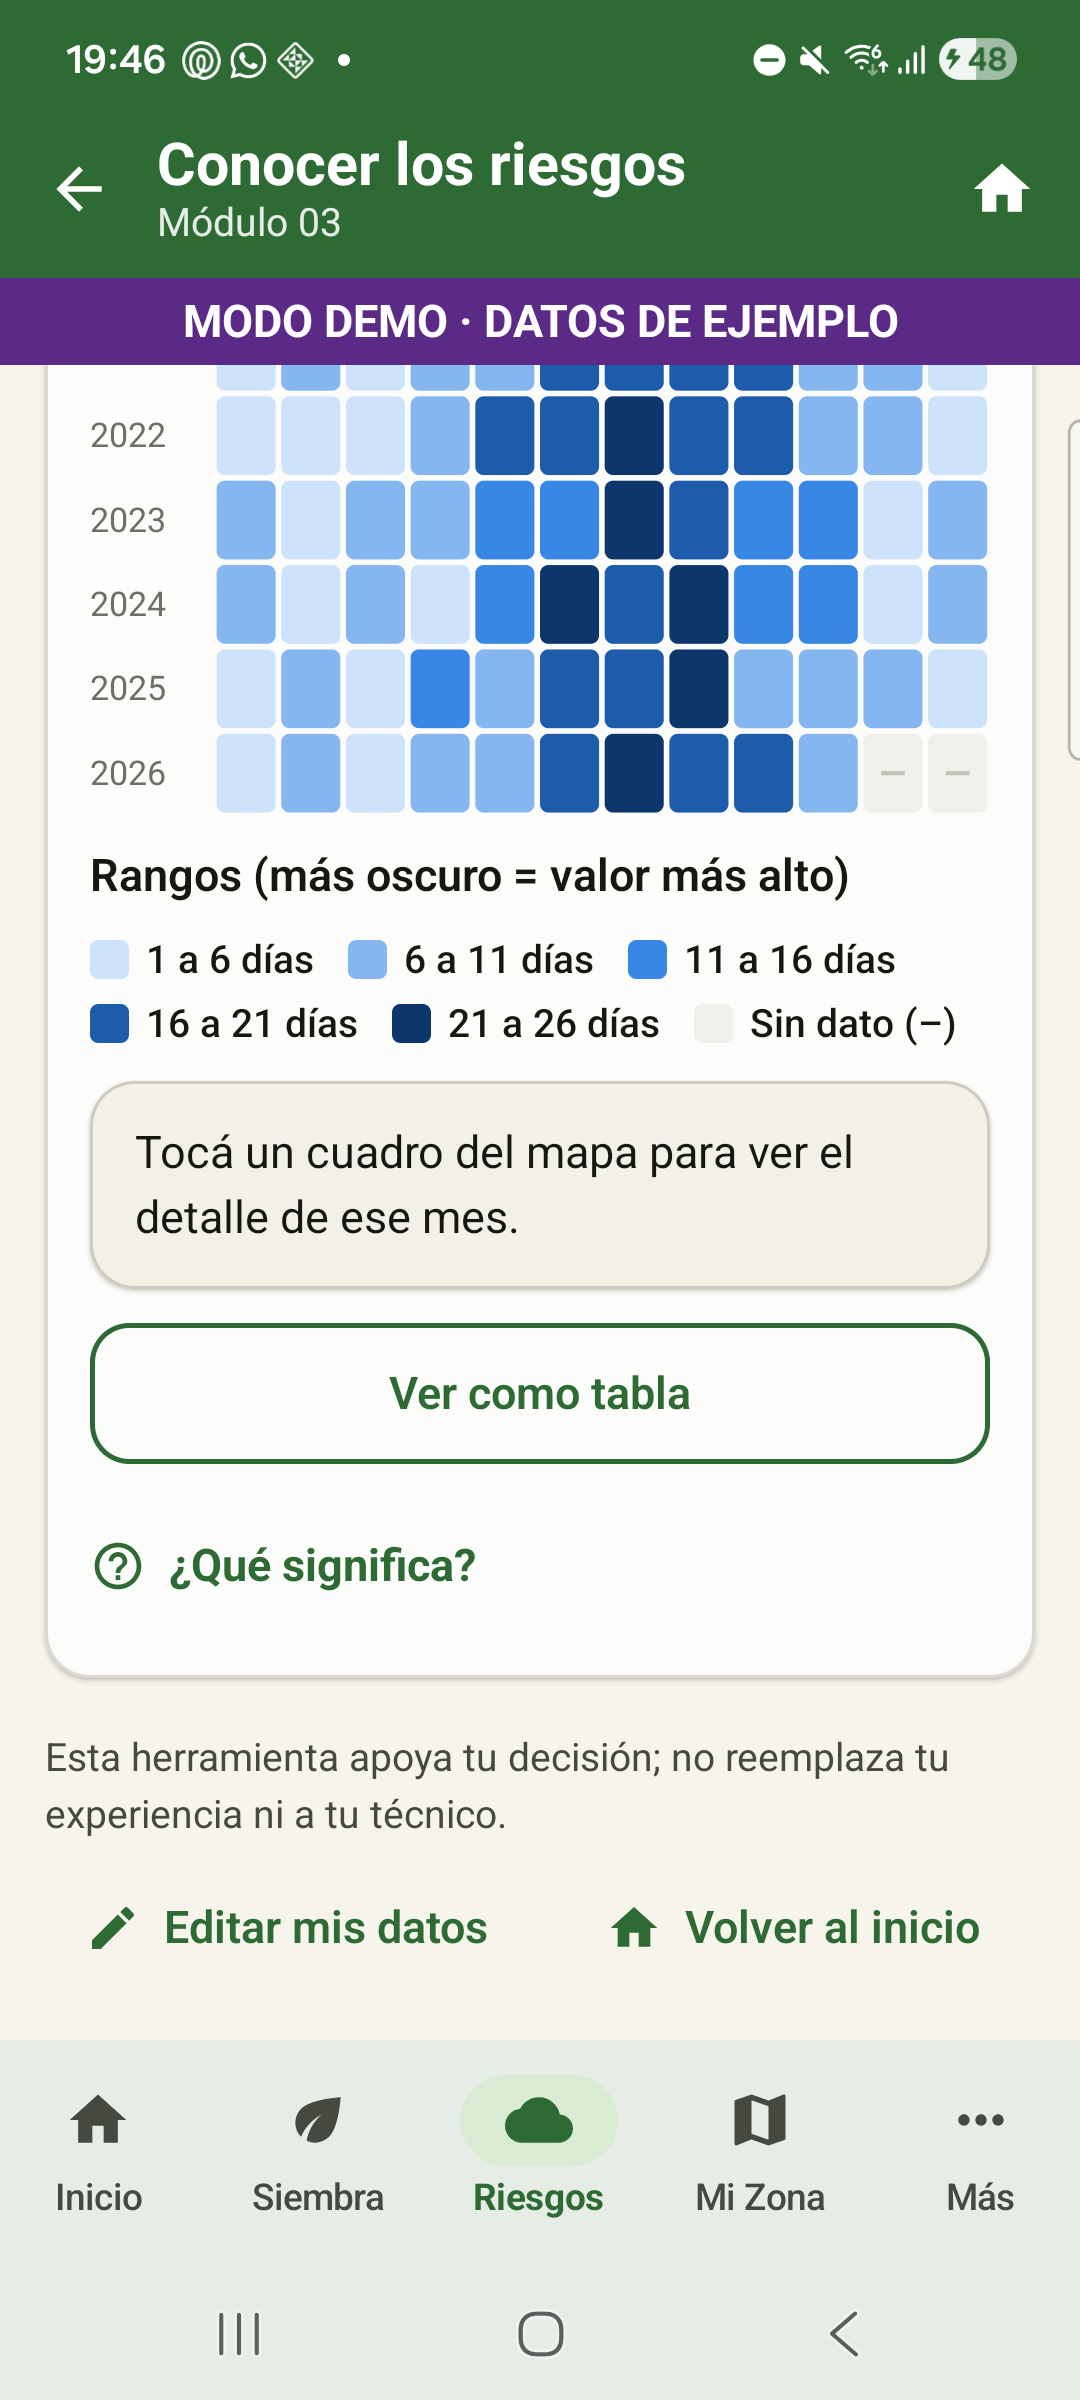
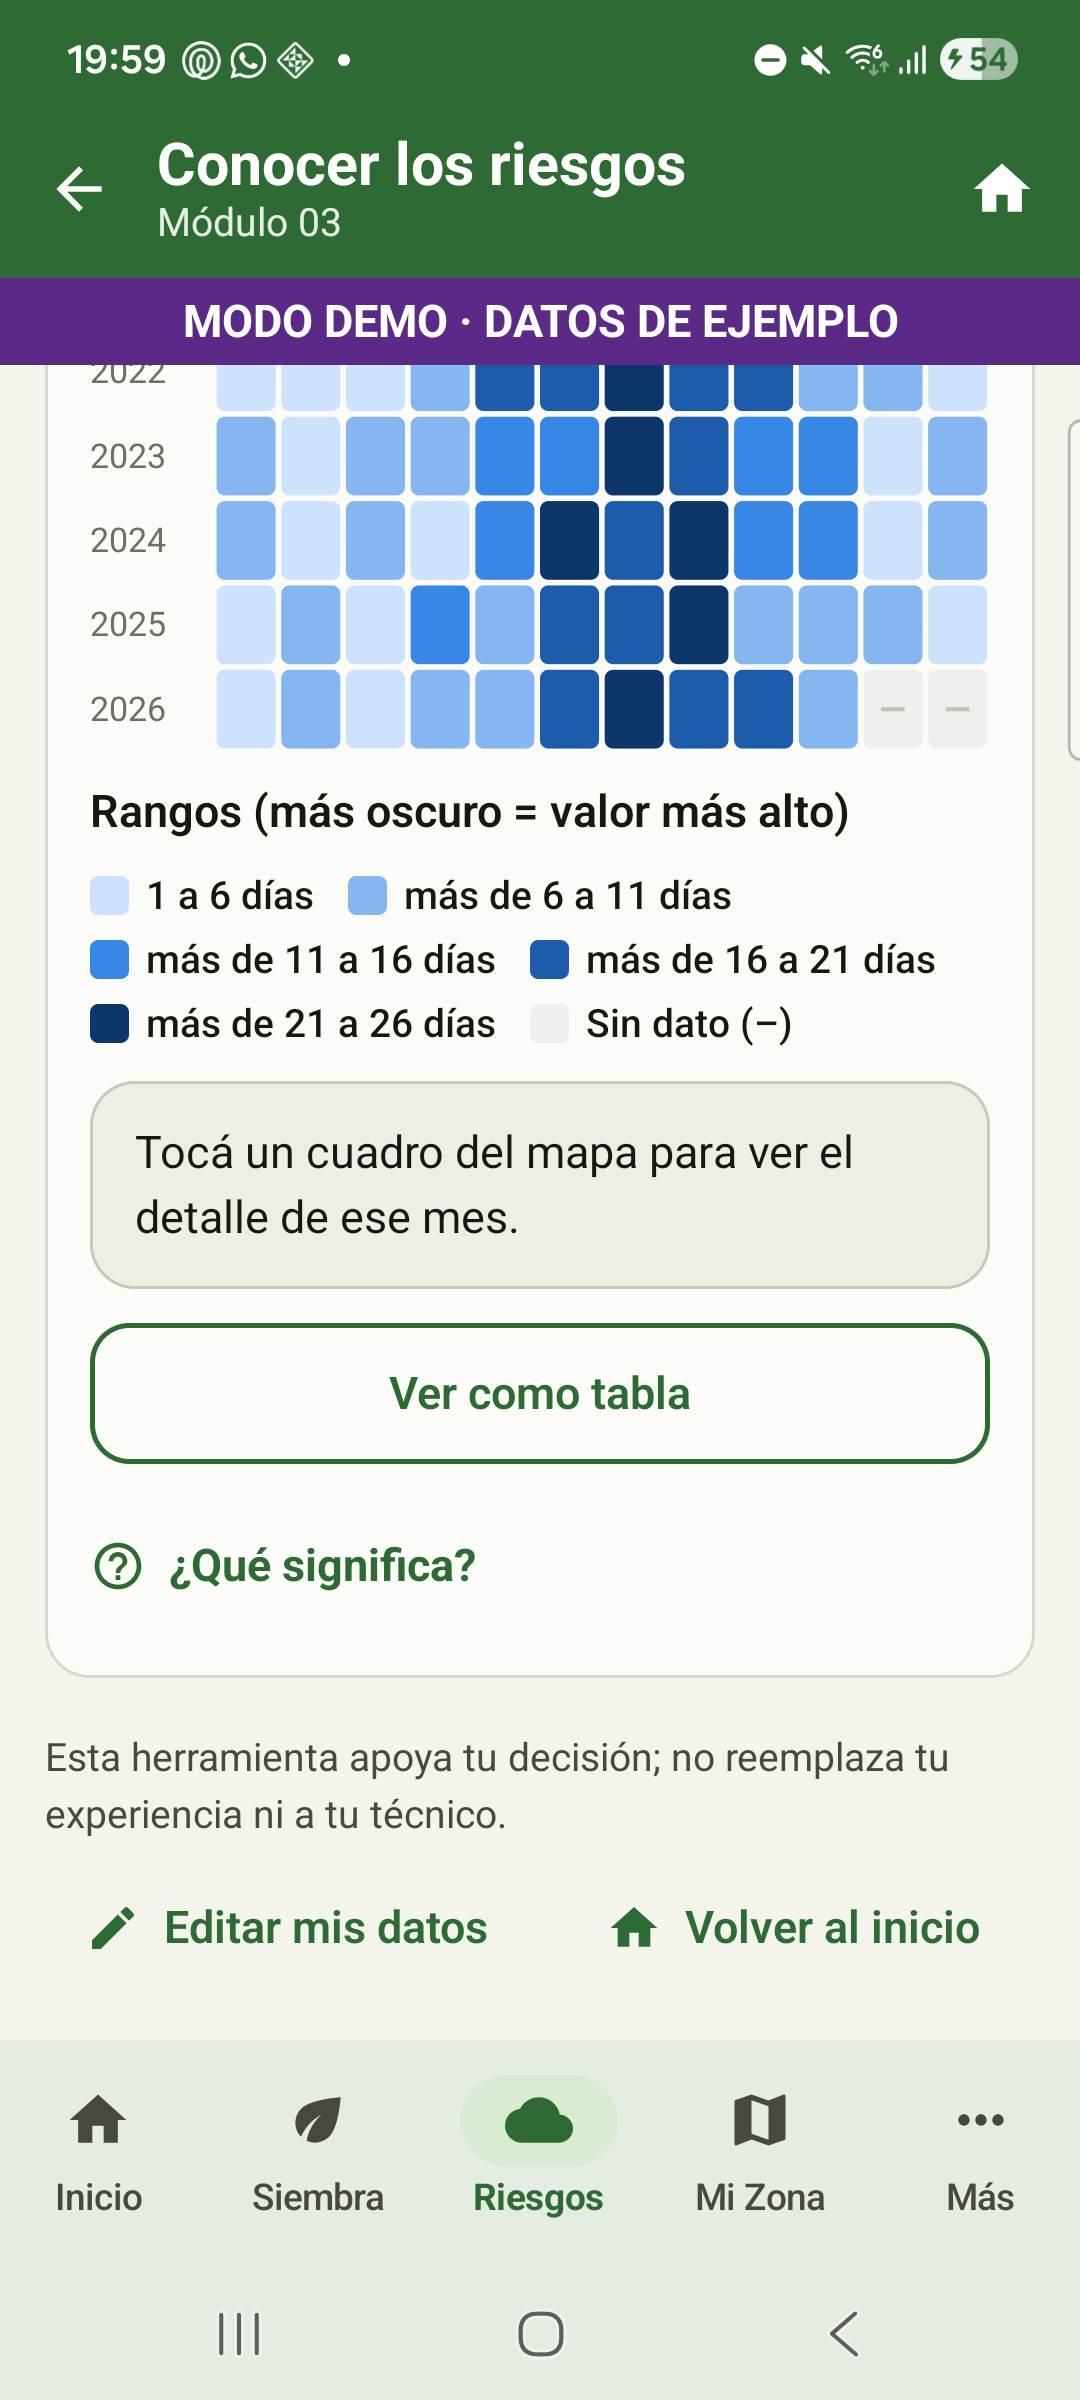
docs(ui): segundo pase (P2) en README, DESIGN.md y capturas «después»

diff --git a/DESIGN.md b/DESIGN.md
@@ -11,16 +11,16 @@ colors:
   clay: "#8A5A00"
   clay-container: "#FFE9B8"
   on-clay-container: "#3D2800"
-  paper: "#F7F4EC"
-  card-surface: "#FCFCFB"
+  paper: "#F3F5EC"
+  card-surface: "#FBFCF8"
   surface-container-lowest: "#FFFFFF"
-  surface-container: "#F3F0E6"
-  card-surface-variant: "#EDE9DD"
-  surface-container-highest: "#E6E2D4"
+  surface-container: "#ECEFE3"
+  card-surface-variant: "#E6E9DB"
+  surface-container-highest: "#DFE3D2"
   ink: "#14180F"
   ink-secondary: "#45493F"
   outline: "#7B7F72"
-  outline-soft: "#CFCBBD"
+  outline-soft: "#C6CBB9"
   alert-red: "#A62B22"
   alert-red-container: "#FBE0DC"
   on-alert-red-container: "#5C120D"
@@ -42,6 +42,7 @@ colors:
   chart-div-mid: "#F0EFEC"
   chart-div-high-soft: "#86B6EF"
   chart-div-high: "#1C5CAB"
+  chart-surface: "#FCFCFB"
   chart-no-data: "#F0EFEC"
   chart-grid: "#E1E0D9"
   chart-axis: "#C3C2B7"
@@ -241,8 +242,8 @@ components:
 
 > Este documento describe el sistema **tal como está implementado** en `app/src/main/java/com/example/farmealotu/ui/`
 > (`theme/Color.kt`, `theme/Type.kt`, `theme/Theme.kt`, `components/Common.kt`, `components/Charts.kt`,
-> `components/HeatScale.kt`). Las decisiones aprobadas que todavía no están en el código se marcan
-> **«aprobada, pendiente de aplicar»**.
+> `components/HeatScale.kt`, `components/FarmIcons.kt`). Si se aprueba una decisión que todavía no está en el código,
+> se marca **«aprobada, pendiente de aplicar»**; hoy no hay ninguna.
 
 ## Overview
 
@@ -328,9 +329,10 @@ no se reordenan y no se cambian sin volver a validarlos.
 
 **The Purple Means Demo Rule.** El morado aparece solo en la franja de MODO DEMO. Si lo ves en otro lugar, es un error.
 
-**The Green Paper Rule (aprobada, pendiente de aplicar).** Llevar `paper` y las superficies neutras a un papel con un
-matiz verde leve, sin perder la calidez ni el contraste de la tinta. Es un cambio pequeño dentro de la misma
-identidad; se aplica en la Fase 2 (tema) y se revalidan los contrastes.
+**The Green Paper Rule.** `paper` y las superficies neutras son un papel con un matiz verde leve (antes crema
+#F7F4EC), sin perder la calidez ni el contraste: la tinta queda en 14:1 o más, la secundaria en 7:1 o más y el verde
+de los textos en 4,9:1 o más sobre todas las superficies. `ChartPalette.surface` tiene su propio valor fijo
+(`chart-surface`) y no sigue a `card-surface`.
 
 ## Typography
 
@@ -390,18 +392,18 @@ detalle. Lo técnico va al final y plegado.
 
 ## Elevation & Depth
 
-Hoy el sistema es mixto. Las tarjetas combinan una sombra de 1 dp con un borde fino de `outline-soft` al 70 %. El
-botón principal tiene 2 dp de sombra, y la barra de navegación usa elevación tonal de 6 dp. Las tarjetas tranquilas
-(`surface-container`, sin borde) ya se apoyan solo en el tono.
+Plana y tonal. Las tarjetas declaran la elevación una sola vez, con un borde fino de `outline-soft` al 70 % y sin
+sombra. El botón principal no tiene sombra. La barra de navegación usa elevación tonal de 6 dp, y las tarjetas
+tranquilas (`surface-container`, sin borde) se apoyan solo en el tono.
 
 ### Shadow Vocabulary
-- **Tarjeta** (elevación Material 1 dp + borde de 1 dp en `outline-soft` al 70 %): todas las `SectionCard`.
-- **Botón principal** (elevación Material 2 dp): `PrimaryButton`.
+- **Tarjeta** (sin sombra; borde de 1 dp en `outline-soft` al 70 %): todas las `SectionCard`.
+- **Botón principal** (sin sombra, también al presionar): `PrimaryButton`.
 - **Barra de navegación** (elevación tonal de 6 dp): `NavigationBar`.
 - **Sombra del geovisor** (negro al 20 %, `0x33000000`): sombra de las capas de la pila isométrica en Canvas.
 
 ### Named Rules
-**The Flat Tonal Rule (aprobada, pendiente de aplicar).** La profundidad se expresa con los niveles tonales de
+**The Flat Tonal Rule.** La profundidad se expresa con los niveles tonales de
 superficie de Material 3 y bordes finos, con una sombra casi nula. Así se lee más limpio y ordenado, y al sol no se
 ensucia. La tarjeta destacada se distingue por su contenedor y su borde de 2 dp, no por la sombra.
 
@@ -422,7 +424,7 @@ acción principal clara por pantalla.
 ### Buttons
 - **Shape:** esquinas redondeadas medias (14 dp).
 - **Primary (`PrimaryButton`):** relleno Verde Cultivo con texto blanco en Title Medium Bold; ancho completo, alto
-  mínimo de 54 dp, relleno de 12/16 dp y 2 dp de sombra. Ejemplos: «Comparar opciones de siembra», «Comparar todas»,
+  mínimo de 54 dp, relleno de 12/16 dp y sin sombra. Ejemplos: «Comparar opciones de siembra», «Comparar todas»,
   «Reintentar».
 - **Secondary (`SecondaryButton`):** contorno de 1,5 dp en Verde Cultivo y texto verde en Label Large SemiBold;
   ancho completo, alto mínimo de 50 dp. Se usa para navegar y para acciones alternativas.

diff --git a/docs/ui_review/README.md b/docs/ui_review/README.md
@@ -38,12 +38,22 @@ También se actualizó `DESIGN.md` y `.impeccable/design.json` para describir el
 - Revisado en el teléfono: tema claro, oscuro y letra 1.3. Al terminar se restauraron los valores del teléfono
   (modo oscuro activado, letra 1.0, No molestar apagado, «mantener encendida» = 7).
 
+## Segundo pase: P2
+
+| # | Problema (antes) | Cambio | Archivo | Comparar |
+|---|---|---|---|---|
+| P2-1 | Datos de terreno: etiquetas «A»/«B» superpuestas y eje 6 · 15.7 · 25.3 · 35 | Marcas redondas (`niceTicks`: pasos de 1, 2, 2,5 o 5 × 10ⁿ) y etiquetas finales que se separan si chocan | `ui/components/Charts.kt` | `antes/claro/15_datos_terreno_3..4` → `despues/claro/15_datos_terreno_humedad*` |
+| P2-2 | Escala 0·50·100 repetida bajo cada opción del 04 | La escala se rotula solo en la primera barra; las demás conservan las marcas | `Charts.kt` (`RangeBar`), `UncertaintyScreen.kt` | `13_incertidumbre_1` |
+| P2-3 | Leyenda «1 a 6 días / 6 a 11 días» (¿dónde va el 6?) | «1 a 6», «más de 6 a 11», igual que se asigna el color | `ui/components/HeatScale.kt` | `12_riesgos_mapa_calor` |
+| P2-4 | Fondo crema y sombras de 1–2 dp | Papel con matiz verde (contrastes revalidados) y profundidad plana; `ChartPalette.surface` fijado para no cambiar la paleta | `ui/theme/Color.kt`, `Theme.kt`, `Common.kt` | cualquier captura |
+| P2-5 | Preguntas 3 y 4: glifo «○ / ✓» y sin grupo para TalkBack | `RadioButton` de Material y `selectableGroup()` | `ui/screens/input/FarmerInputScreen.kt` | `despues/claro/04_entrada_p3_seleccion` |
+| P2-6 | Fuentes: «318083» | «318 083» con espacio fino, solo en números de 5 o más cifras (los años no cambian) | `Format.kt` (`groupThousands`), `SourcesScreen.kt` | `16_fuentes_contexto` |
+| P2-7 | `10.0.2.2` no anda en celular y nada lo decía | Aviso en Conexión cuando la dirección es 10.0.2.2 y la app corre en un celular | `ui/screens/settings/ConnectionScreen.kt` | `17_conexion_1` |
+
+Tests: **63/63 en verde** después del segundo pase.
+
 ## Pendiente (no se hizo)
 
-- **P2 (no aprobados en este pase):** marcas del eje y etiquetas superpuestas en «Datos de terreno»; eje
-  0·50·100 repetido en el módulo 04; leyenda de rangos con bordes compartidos («1 a 6 / 6 a 11»); papel con matiz
-  verde y elevación plana tonal (aprobados en `DESIGN.md`, sin aplicar); `selectableGroup()` en las preguntas 3 y 4;
-  separador de miles en Fuentes; nota de que `10.0.2.2` solo sirve en emulador.
 - **Sin probar:** tablet y horizontal, TalkBack de punta a punta (solo revisión de código), rendimiento medido,
   brillo bajo sol real, backend real (no disponible; todo en modo demo).
 - `local.properties` quedó con `farmealotu.demoMode=true` (archivo local, fuera de git).
